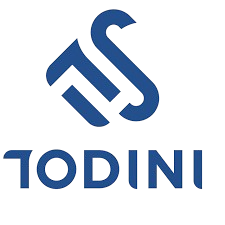
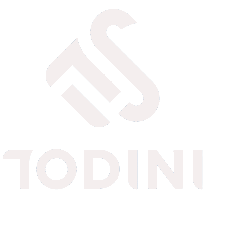
fix : asset color

diff --git a/src/Component/Partner/data.js b/src/Component/Partner/data.js
@@ -7,6 +7,7 @@ import todini from "../../assets/todini.png";
 import irridea from "../../assets/irridea.png";
 import agm from "../../assets/agm.png";
 import ctm from "../../assets/ctm.png";
+import beta from "../../assets/betaa.png";
 
 
 export const images = [
@@ -14,6 +15,7 @@ export const images = [
   { src: white, alt: "Icon 2" },
   { src: ubs, alt: "Icon 3" },
   { src: agm, alt: "Icon 3" },
+  { src: beta, alt: "Icon 3" },
   { src: irridea, alt: "Icon 3" },
   { src: todini, alt: "Icon 3" },
   { src: indobara, alt: "Icon 3" }, 
@@ -25,22 +27,26 @@ export const images = [
   { src: agm, alt: "Icon 3" },
   { src: irridea, alt: "Icon 3" },
   { src: todini, alt: "Icon 3" },
+  { src: beta, alt: "Icon 3" },
   { src: indobara, alt: "Icon 3" },
   { src: plabs, alt: "Icon 3" },
   { src: ctm, alt: "Icon 3" },
   { src: wit, alt: "Icon 1" },
   { src: white, alt: "Icon 2" },
+  { src: beta, alt: "Icon 3" },
   { src: ubs, alt: "Icon 3" },
   { src: ctm, alt: "Icon 3" },
   { src: agm, alt: "Icon 3" },
   { src: irridea, alt: "Icon 3" },
   { src: todini, alt: "Icon 3" },
   { src: indobara, alt: "Icon 3" },
+  { src: beta, alt: "Icon 3" },
   { src: plabs, alt: "Icon 3" },
   { src: ctm, alt: "Icon 3" },
   { src: wit, alt: "Icon 1" },
   { src: white, alt: "Icon 2" },
   { src: ctm, alt: "Icon 3" },
+  { src: beta, alt: "Icon 3" },
   { src: ubs, alt: "Icon 3" },
   { src: agm, alt: "Icon 3" },
   { src: irridea, alt: "Icon 3" },

diff --git a/src/Component/Header/Header.jsx b/src/Component/Header/Header.jsx
@@ -5,6 +5,7 @@ import "./header.css";
 import { motion, AnimatePresence } from "framer-motion";
 import Nav from "./Nav/Nav";
 import logo_complete from "../../assets/logo_complete.svg";
+import { links } from "./Nav/data"; // Import the links array
 
 const menu = (isMobile) => ({
   open: isMobile
@@ -123,6 +124,18 @@ export default function Header({ scrollYRef }) {
         <img src={logo_complete} alt="Logo" />
       </button>
       <div className="header__right" ref={menuRef}>
+        <nav className="header__menu-list">
+          {links.map((link) => (
+            <a
+              key={link.title}
+              href={link.href}
+              className="header__menu-item"
+              onClick={handleCloseMenu}
+            >
+              {link.title}
+            </a>
+          ))}
+        </nav>
         <motion.div
           className="header__menu"
           variants={menu(isMobile)}

diff --git a/src/Component/Work/Work.jsx b/src/Component/Work/Work.jsx
@@ -5,9 +5,10 @@ import WorkCard from "./WorkCard/WorkCard";
 const Work = (works) => {
   const worksData = works?.works?.data;
   
-  const featuredWorksData = worksData.filter((work) => {
-    return work?.attributes?.Featured === true;
-  });
+  const featuredWorksData = Array.isArray(worksData)
+  ? worksData.filter((work) => work?.attributes?.Featured === true)
+  : [];
+
 
   if (!featuredWorksData?.length) {
     console.log("No featured works available");
